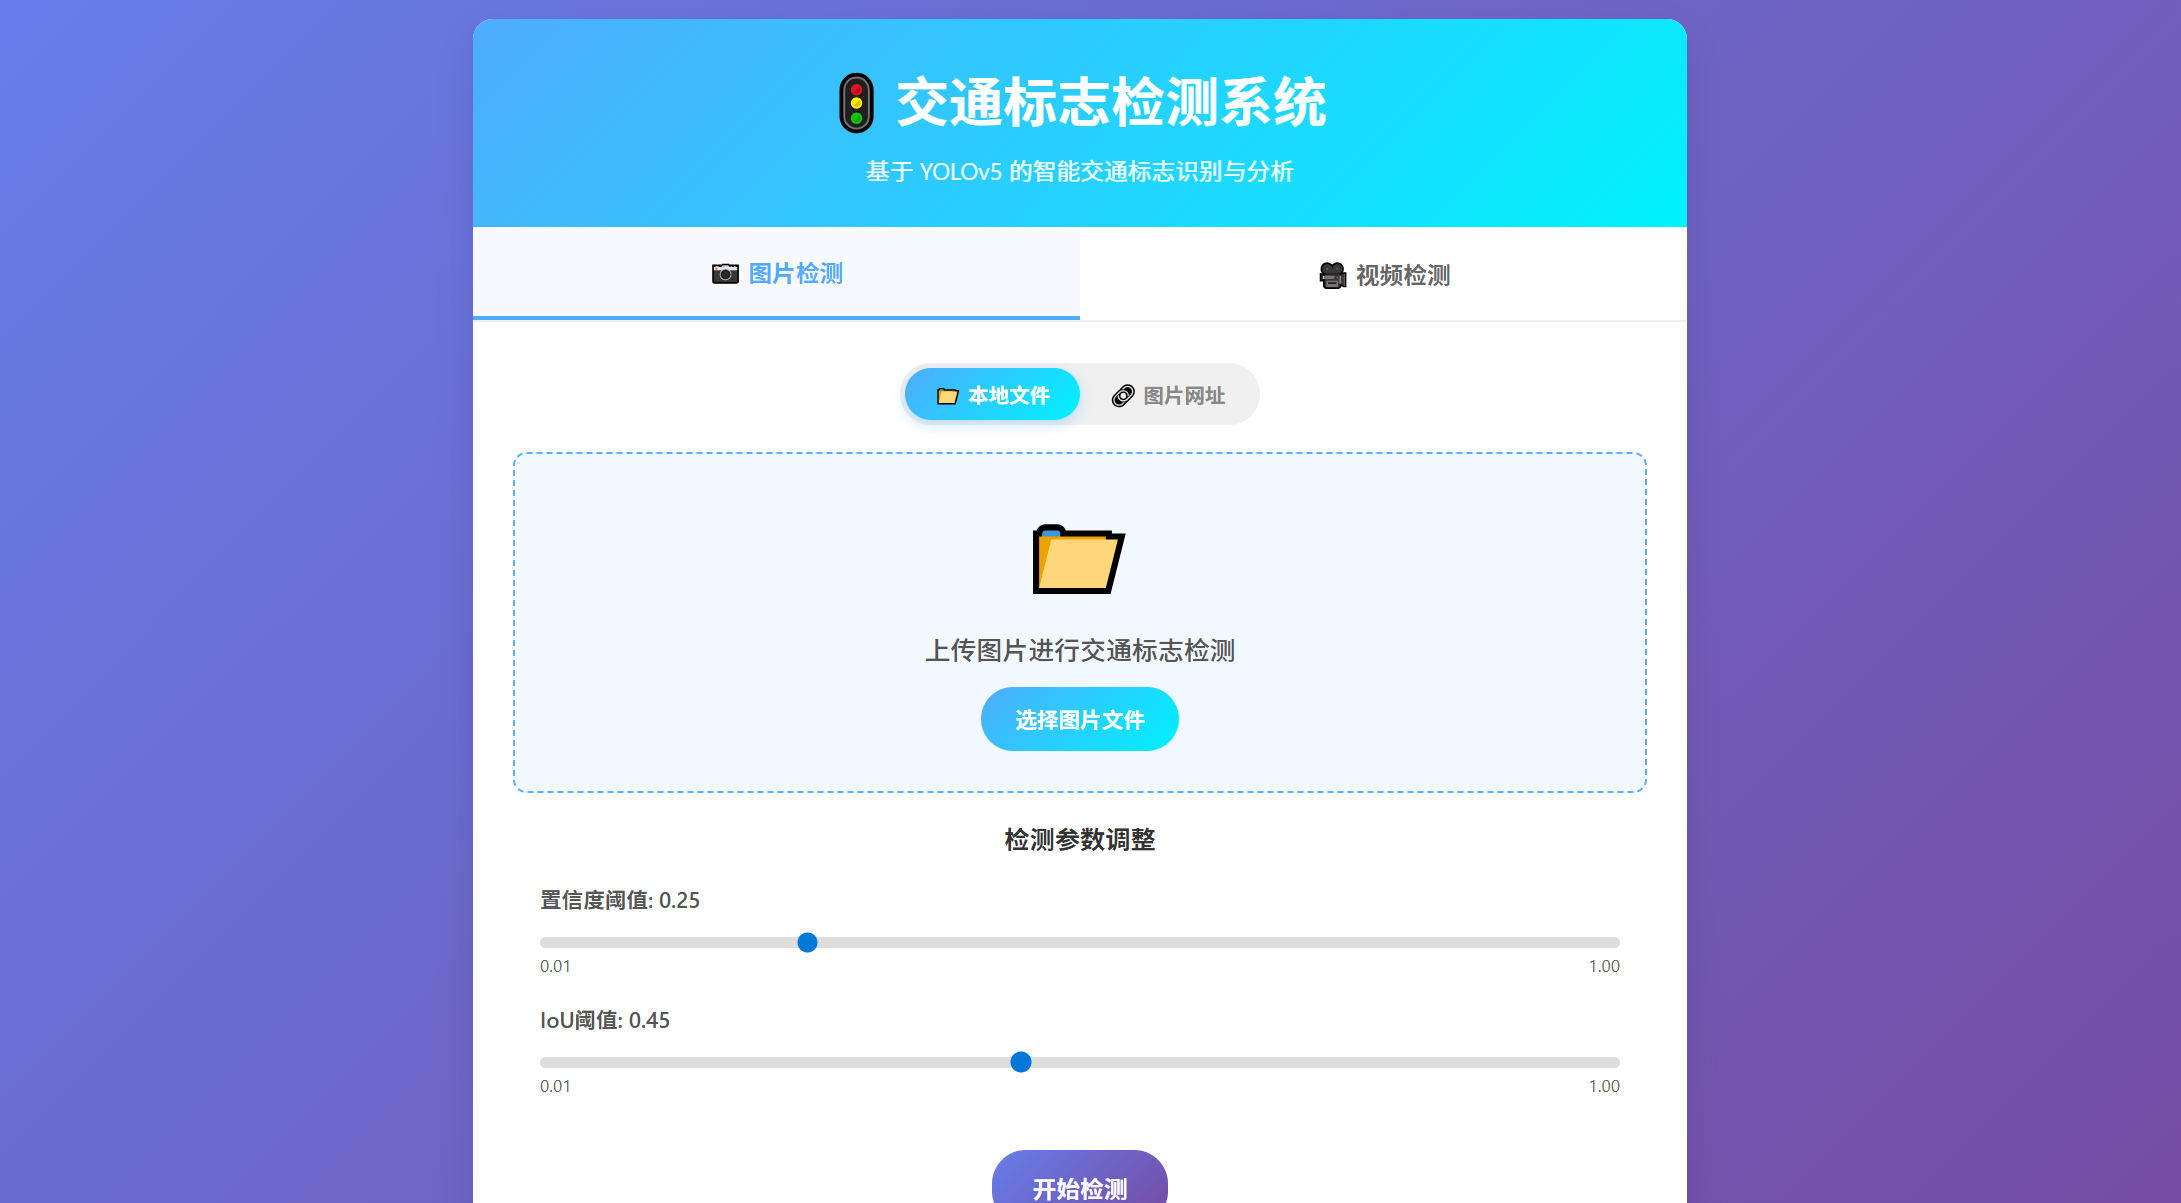
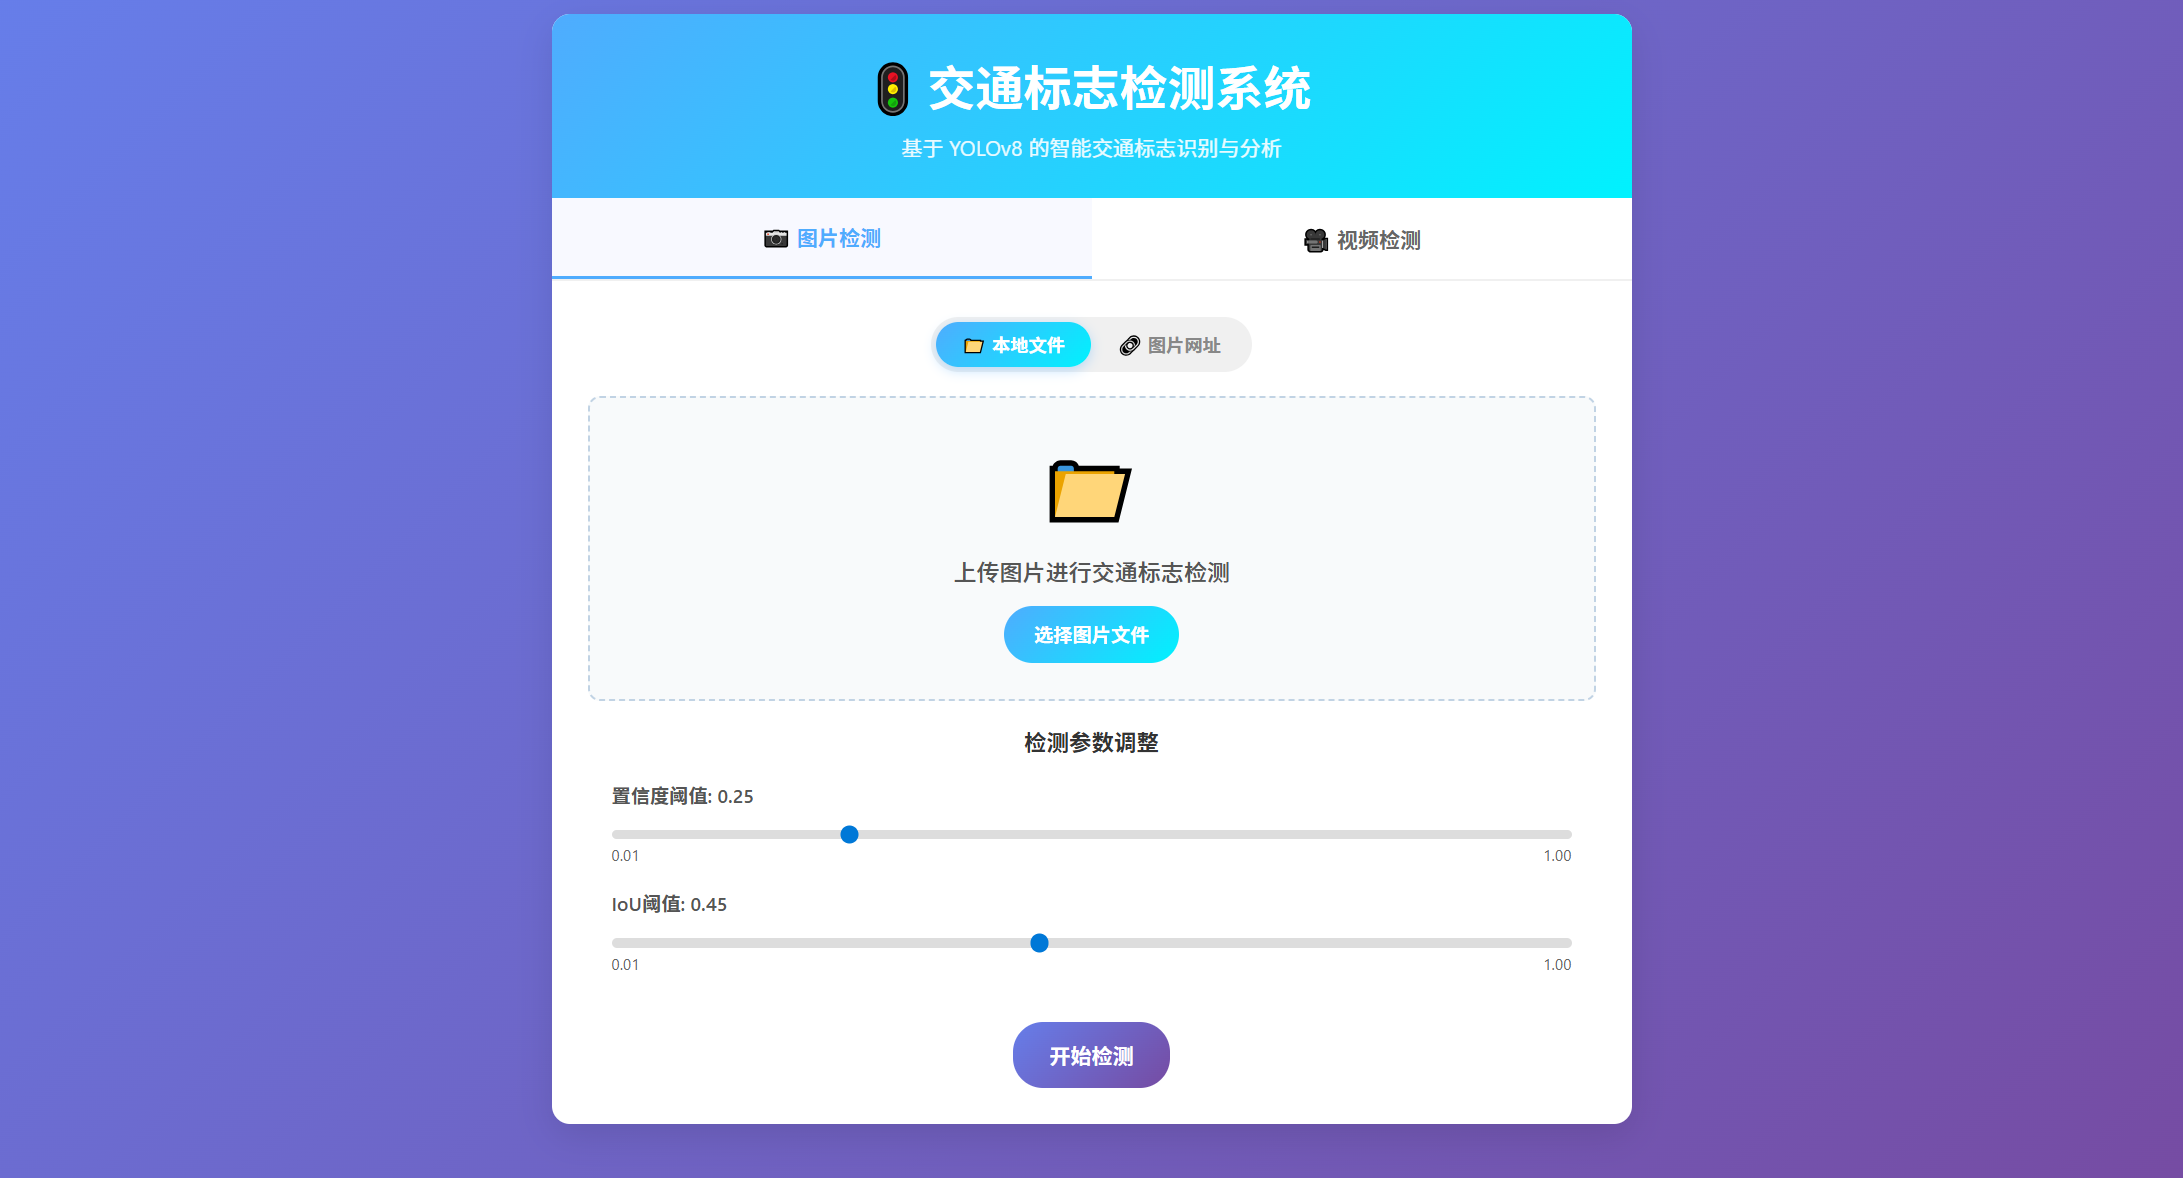
fix：bug

Changed region(s): [[0.2182, 0.0, 0.7795, 1.0]]

diff --git a/web/templates/index.html b/web/templates/index.html
@@ -312,7 +312,7 @@
     <div class="container">
         <div class="header">
             <h1>🚦 交通标志检测系统</h1>
-            <p>基于 YOLOv5 的智能交通标志识别与分析</p>
+            <p>基于 YOLOv8 的智能交通标志识别与分析</p>
         </div>
 
         <div class="tabs">

diff --git a/web/templates/result.html b/web/templates/result.html
@@ -233,7 +233,7 @@
     <div class="container">
         <div class="header">
             <h1>✅ 检测结果</h1>
-            <p>基于 YOLOv5 的智能交通标志识别</p>
+            <p>基于 YOLOv8 的智能交通标志识别</p>
         </div>
 
         <div class="result-content">
